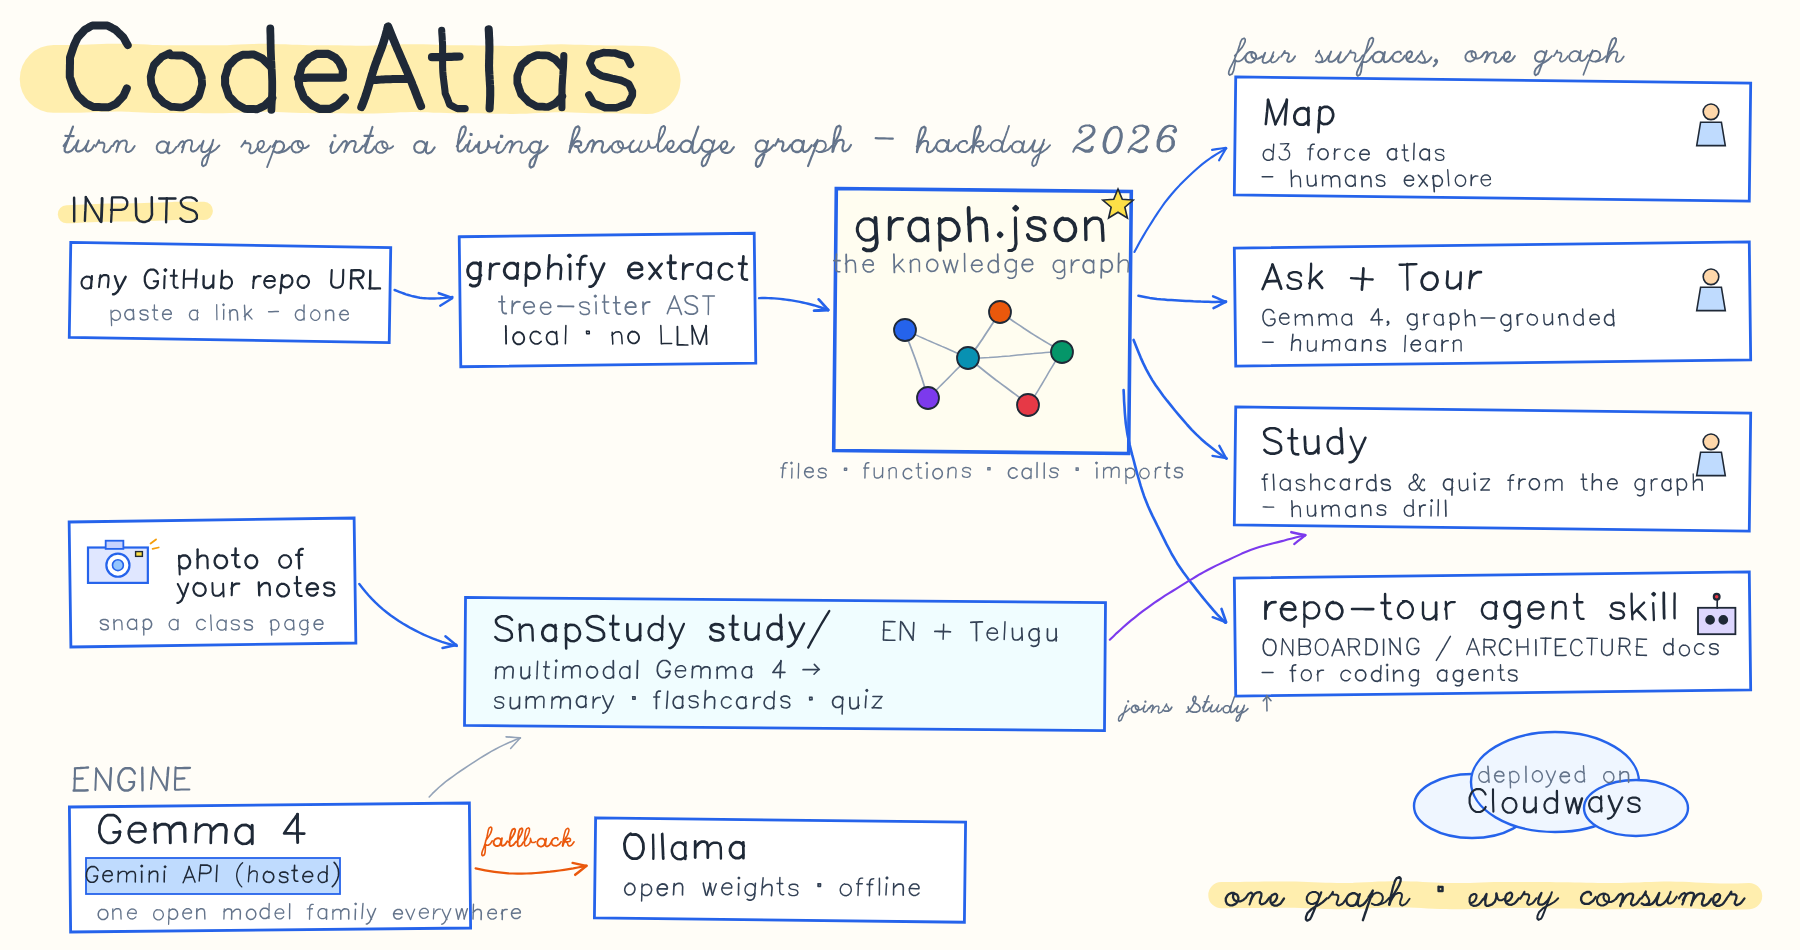
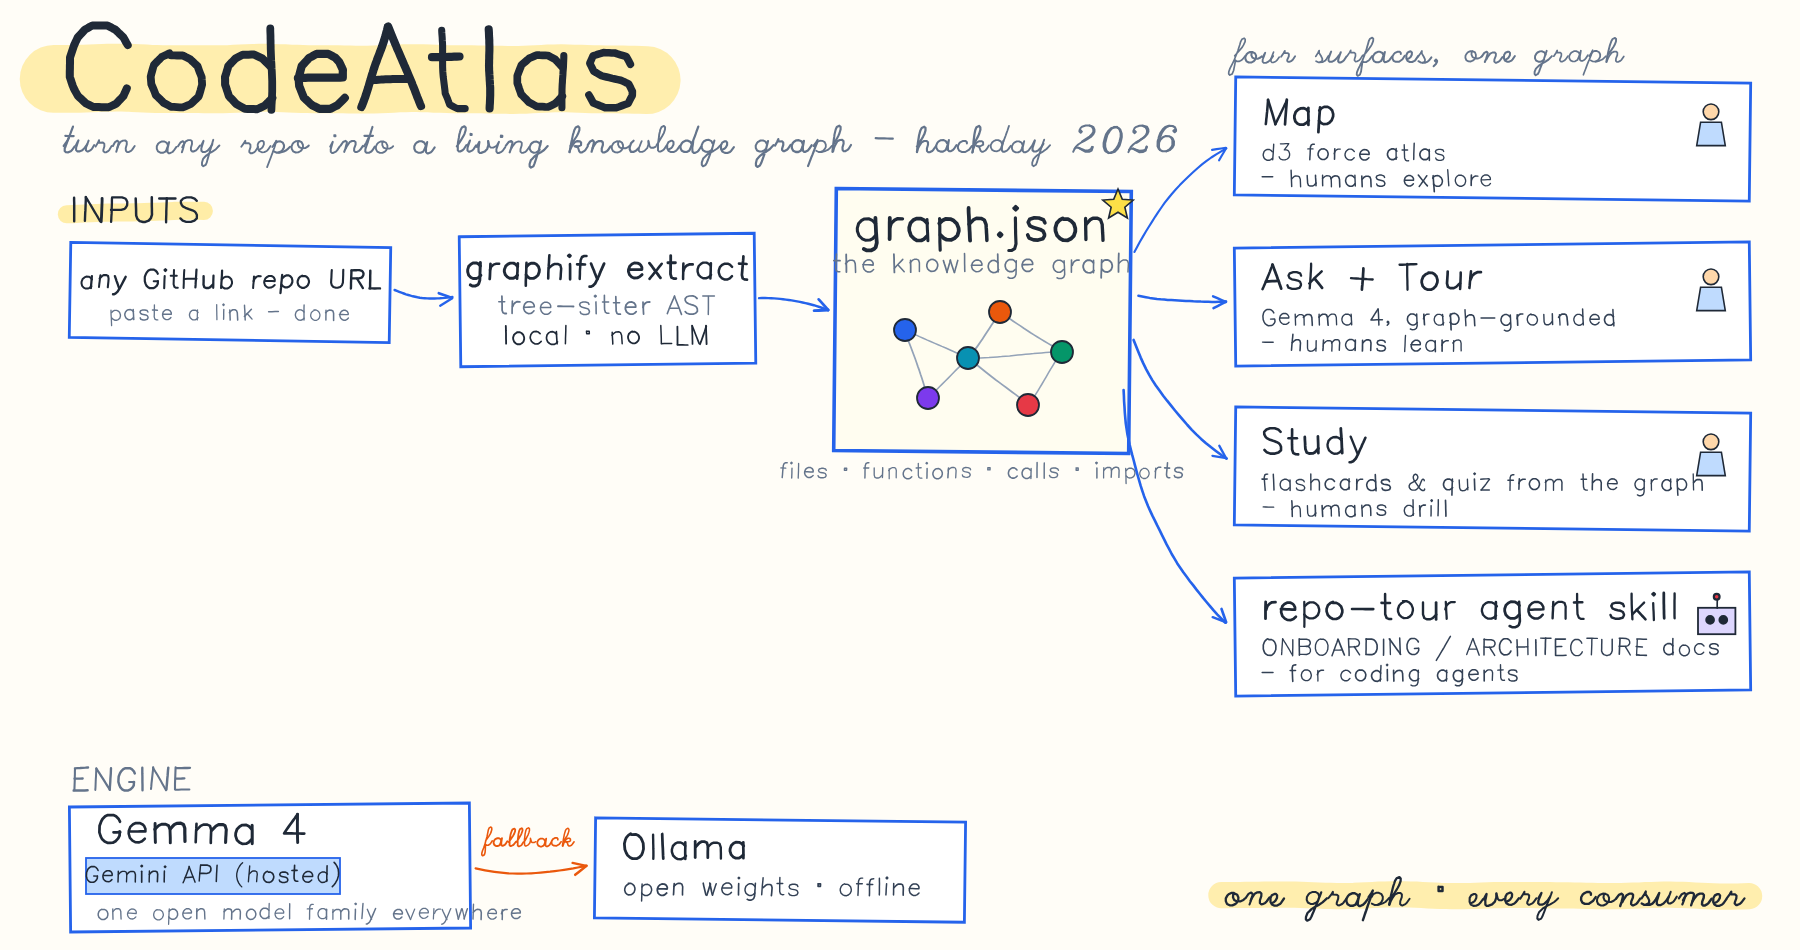
Architecture: drop SnapStudy input and Cloudways cloud

diff --git a/README.md b/README.md
@@ -8,7 +8,7 @@
 
 **So we built the map.** CodeAtlas turns any repo into a living knowledge graph — parsed locally from the AST in seconds, no LLM needed to build it — and opens four doors into that one ground truth: an atlas you explore, a Gemma 4 guide who cites `file:line` and can't invent symbols, flashcards that make the architecture stick, and an installable skill that hands the whole map to your coding agent.
 
-<img src="docs/architecture.png" width="100%" alt="Hand-drawn architecture sketch: a GitHub repo URL flows into graphify extract (tree-sitter AST, local, no LLM), producing graph.json — the knowledge graph. Four arrows fan out to the surfaces: Map (d3 force atlas, humans explore), Ask + Tour (Gemma 4, graph-grounded, humans learn), Study (flashcards and quiz from the graph, humans drill), and the repo-tour agent skill (ONBOARDING / ARCHITECTURE docs for coding agents). A second input, a photo of your notes, flows into SnapStudy (multimodal Gemma 4 → summary, flashcards, quiz in English and Telugu), joining the Study surface. Engine strip below: Gemma 4 via the Gemini API with a fallback arrow to Ollama (open weights, offline); deployed on Cloudways. Caption: one graph, every consumer.">
+<img src="docs/architecture.png" width="100%" alt="Hand-drawn architecture sketch: a GitHub repo URL flows into graphify extract (tree-sitter AST, local, no LLM), producing graph.json — the knowledge graph. Four arrows fan out to the surfaces: Map (d3 force atlas, humans explore), Ask + Tour (Gemma 4, graph-grounded, humans learn), Study (flashcards and quiz from the graph, humans drill), and the repo-tour agent skill (ONBOARDING / ARCHITECTURE docs for coding agents). Engine strip below: Gemma 4 via the Gemini API with a fallback arrow to Ollama (open weights, offline). Caption: one graph, every consumer.">
 
 ```
 inputs                     ground truth                 surfaces
